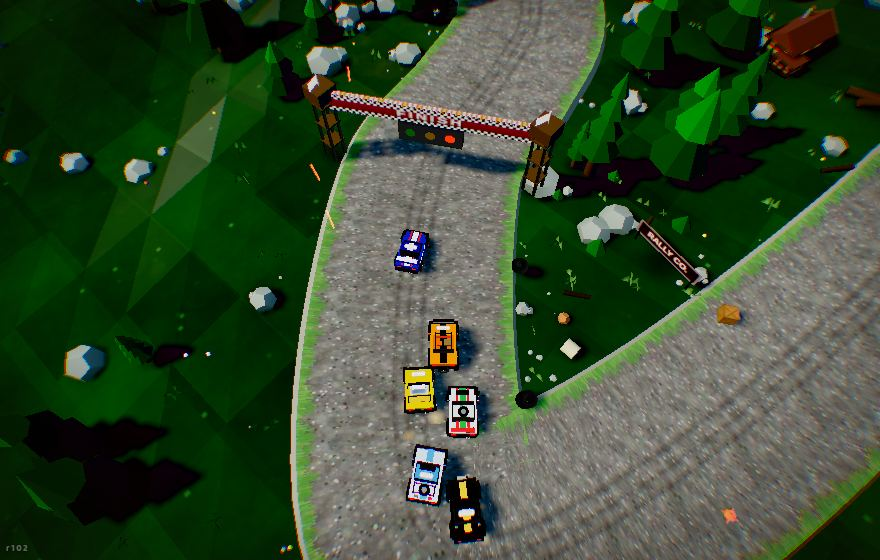
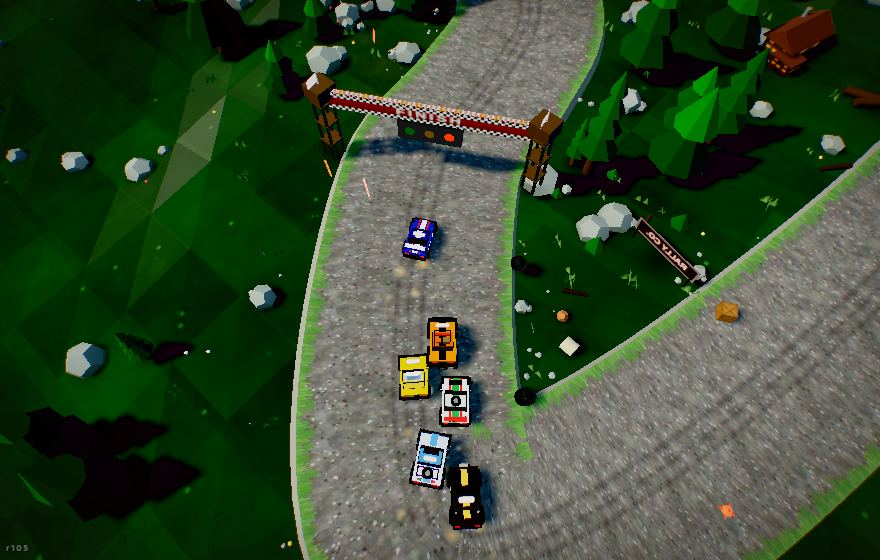
Crashable vines, a gorge that is a hole, nothing standing in water, and the last of the white
CRASHABLE VINES. A trellis panel is wire and leaf, not masonry, so all 7770
of them now go through the same material law as a sapling: at pace you
plough a car-width gap through the row and the panels fly off; at a crawl
the row shoulders you back. Verified in-engine - 7770 registered, 7770
classified as yielding, smashTree zeroes the instance and hands back debris,
restoreSmashed stands it up again between races.

A GORGE IS A HOLE. No road, no water, jump or nothing. The gorge river is
suppressed on any world carrying a jump gorge, and the MAIN river now
pinches to zero width where its reach crosses one, so the water stops at
the rim instead of laying a blue plank across the gap.

NOTHING DRY STANDS IN WATER. _underwater only ever knew about the sea, so
every scatter that used it still dropped its props in the river - straw
bales standing in the current, trees growing mid-stream. One _inWater test
now covers sea and river, and the hay, tree and ring scatters all ask it.
The rejection sits in the position generator, so a wet spot is retried
rather than counting as a prop spent.

THE WHITE, FOR REAL THIS TIME. Furka was still whiting out. Hunted it by
sweeping 20 lap poses through the chase camera, scoring each frame for
near-white pixels, then ablating every named mesh at the worst pose:
- the massif owned 79 % of it. r104 mixed peakColor toward hillColor, which
  works on limestone and does nothing on a snow pass where both are pale.
[…]

diff --git a/src/track.js b/src/track.js
@@ -4492,6 +4492,17 @@ export class Track {
   /** Depth of the river gorge at (x, z): 0 everywhere outside it, easing to
    *  the full depth along the channel. Applied inside _blendHeight so the
    *  scenery field, the terrain mesh and the free-roam ground all agree. */
+  /** Is (x,z) inside a jump gorge's footprint (pad grows it outward)?
+   *  The rule "a gorge is a hole" needs one test every builder can ask. */
+  _inJumpGorge(x, z, pad = 0) {
+    if (!this._jumpGorges?.length) return false;
+    for (const G of this._jumpGorges) {
+      if (this._gorgeCutOne(G, x, z) > 0.4) return true;
+      if (pad > 0 && this._gorgeCutOne(G, x, z) > 0.05) return true;
+    }
+    return false;
+  }
+
   _gorgeCutOne(G, x, z) {
     const dx = x - G.x, dz = z - G.z;
     const u = dx * G.ax + dz * G.az;          // along the gorge
@@ -4751,6 +4762,17 @@ export class Track {
     const C = this.T.coast;
     if (!C) return false;
     return this.terrainHeight(x, z) < (C.level ?? -2) + 0.6;
+  }
+
+  /** IN WATER - sea OR river. `_underwater` only ever knew about the sea, so
+   *  every scatter that used it still dropped its props into the river: straw
+   *  bales standing in the current, trees growing mid-stream. One test now
+   *  covers both, and anything that would look absurd wet asks it. */
+  _inWater(x, z) {
+    if (this._underwater(x, z)) return true;
+    if (!this._river) return false;
+    const R = this._river;
+    return this._riverDist(x, z) < (R.half ?? 8) + 2.5;
   }
 
   /** Harbour worlds only: the open stone strip between the seafront road and
@@ -6814,6 +6836,9 @@ export class Track {
 
   /** The pale turquoise river winding along the bottom of the hero gorge. */
   _buildGorgeRiver() {
+    // A JUMP gorge is meant to be an empty hole: no floor, no water, nothing
+    // that reads as a way across. Worlds that carry jump gorges get a dry gap.
+    if (this._jumpGorges?.length) return;
     const G = this._gorge;
     const SEG = 26, HALF = 7.5;
     const verts = new Float32Array((SEG + 1) * 2 * 3);
@@ -7409,6 +7434,24 @@ export class Track {
    *  rock peaks standing a few hundred units beyond the summit, so from the
    *  valley the road visibly disappears into a wall of mountain instead of a
    *  flat green horizon. SOLID (free roamers can reach them). */
+  /** Rock tone for a NEAR mountain, dark enough to read as rock on any theme.
+   *
+   *  peakColor is the tone for peaks on the HORIZON, where distance washes
+   *  colour out; used close up it renders as a pale slab. Mixing toward
+   *  hillColor fixed the limestone themes but not the snow ones, where both
+   *  are near-white - on FURKA the massif still owned 79 % of the near-white
+   *  pixels in the worst frame. So the mix is followed by a hard lightness
+   *  CEILING: whatever the theme's palette, a mountain a few hundred units
+   *  away comes out as rock you can see the shape of. */
+  _massifRock() {
+    const c = new THREE.Color(this.T.peakColor)
+      .lerp(new THREE.Color(this.T.hillColor ?? 0x6b6a58), 0.62);
+    const hsl = { h: 0, s: 0, l: 0 };
+    c.getHSL(hsl);
+    c.setHSL(hsl.h, Math.max(hsl.s, 0.12), Math.min(hsl.l, 0.42));
+    return c.getHex();
+  }
+
   _buildMassif(m4) {
     const M = this.T.massif;
     const rock = new THREE.InstancedMesh(
@@ -7425,14 +7468,13 @@ export class Track {
         // theme can override outright with massif.color.
         // ...and barely any fog mix either: 0.34 baked a third of the land's
         // cream haze into rock that stands close enough to read as rock.
-        map: this._horizonGrad(M.color ?? new THREE.Color(this.T.peakColor)
-          .lerp(new THREE.Color(this.T.hillColor ?? 0x6b6a58), 0.62)
-          .multiplyScalar(0.78).getHex(), 0.1, 0.02),
+        map: this._horizonGrad(M.color ?? this._massifRock(), 0.1, 0.02),
         flatShading: true, roughness: 1,
       }),
       M.count
     );
     const q = new THREE.Quaternion(), up = new THREE.Vector3(0, 1, 0);
+    const shade = new THREE.Color();
     for (let k = 0; k < M.count; k++) {
       const t = M.count > 1 ? k / (M.count - 1) : 0.5;
       const a = M.az + (t - 0.5) * M.spread + (Math.random() - 0.5) * 0.1;
@@ -7460,17 +7502,29 @@ export class Track {
       const y = -12 - (this.T.hillDrop || 0) + this._highland(x, z);
       m4.compose(new THREE.Vector3(x, y + h / 2, z), q, new THREE.Vector3(w, h, w * 0.85));
       rock.setMatrixAt(k, m4);
+      // per-cone shade: eight identical tones stack into one flat wall, and a
+      // flat wall is what read as a void
+      shade.setScalar(0.78 + Math.random() * 0.3);
+      rock.setColorAt(k, shade);
       this.solids.push({ x, z, r: w * 0.3, y: y + 4, mat: 'stone' });
     }
     rock.name = 'massif';
+    if (rock.instanceColor) rock.instanceColor.needsUpdate = true;
     this.group.add(rock);
   }
 
   /** FURKA RIDGE: the Rhône glacier tongue spilling off the skyline — a
    *  stepped ice field of big pale slabs, well outside the drivable world. */
   _buildGlacier(m4) {
+    // GLACIER ICE, NOT PAPER. At 0xdff0fb under an alpine sun these slabs were
+    // the white wedge that kept filling the frame on FURKA: with the massif
+    // fixed, hiding the glacier still dropped the near-white share of the worst
+    // frame from 4.9 % to 0.55 %, so it owned nearly all of what was left.
+    // Real ice is a blue-grey that darkens fast out of the light - the tone
+    // comes down, the blue comes up, and the faces get enough spread to show
+    // the stepped tongue instead of one flat sheet.
     const ice = new THREE.MeshStandardMaterial({
-      color: 0xdff0fb, roughness: 0.55, flatShading: true, envMapIntensity: 0.7,
+      color: 0x9fc4dc, roughness: 0.62, flatShading: true, envMapIntensity: 0.5,
     });
     const geo = new THREE.BoxGeometry(1, 1, 1);
     geo.translate(0, 0.5, 0);
@@ -7491,7 +7545,7 @@ export class Track {
         q, new THREE.Vector3(w, h, d)
       );
       slabs.setMatrixAt(k, m4);
-      col.setRGB(0.86 + t * 0.12, 0.93 + t * 0.06, 1.0).multiplyScalar(0.92 + Math.random() * 0.14);
+      col.setRGB(0.78 + t * 0.14, 0.88 + t * 0.1, 1.0).multiplyScalar(0.7 + Math.random() * 0.3);
       slabs.setColorAt(k, col);
     }
     slabs.name = 'glacier';
@@ -8117,6 +8171,15 @@ export class Track {
           vines.setMatrixAt(vk, m4);
           col.setHSL(hue + (Math.random() - 0.5) * 0.02, sat, lum + (Math.random() - 0.5) * 0.05);
           vines.setColorAt(vk++, col);
+          // CRASHABLE. A trellis panel is wire and leaf, not masonry: it goes
+          // through the same material law as a sapling, so at pace you plough a
+          // gap through the row and the panels fly off, and at a crawl the row
+          // shoulders you back. Registered per panel, so the gap you carve is
+          // the width of the car, not the whole block.
+          this.trees.push({
+            x: mx, z: mz, y: gy, r: 1.0, id: vk - 1, parts: [vines],
+            kind: 'vine', s: 0.7, solid: false,
+          });
           if (i % 3 === 0 && pk < posts.count) {
             m4.compose(pos.set(ax, ya, az), q.setFromAxisAngle(up, 0),
               scl.set(1, 1.8 + Math.random() * 0.22, 1));
@@ -10599,7 +10662,7 @@ export class Track {
         }
         // the ring branch skips _trackSidePos and with it the underwater
         // check — on a coast world it was planting conifers IN the sea
-        return p && !this._underwater(p.x, p.z) && !this._onQuayStrip(p.x, p.z)
+        return p && !this._inWater(p.x, p.z) && !this._onQuayStrip(p.x, p.z)
           && this._altOK(p.x, p.z) ? p : null;
       },
       (p) => {
@@ -11566,7 +11629,7 @@ export class Track {
             return this._distToTrack(x, z) < 14 ? null : { x, z };
           })();
         // no olives rooted in the bay: the ring branch bypasses _trackSidePos
-        return p && !this._underwater(p.x, p.z) && this._altOK(p.x, p.z) ? p : null;
+        return p && !this._inWater(p.x, p.z) && this._altOK(p.x, p.z) ? p : null;
       },
       (p) => {
         // on the lattice it is a planted grove, so it is a grove tree and it
@@ -12301,7 +12364,13 @@ export class Track {
     // behind the hedge, where a real silage stack sits anyway. Unset = 12.5-20,
     // the figures every other world has always used.
     const hayNear = this.T.hayNear ?? 12.5, hayFar = this.T.hayFar ?? 20;
-    this._scatter(hayCount, () => this._trackSidePos(hayNear, hayFar), (p) => {
+    // A straw bale standing in the river is not scenery, it is a mistake. The
+    // rejection lives in the position generator so a wet spot is RETRIED
+    // rather than counting as a bale spent.
+    this._scatter(hayCount, () => {
+      const p = this._trackSidePos(hayNear, hayFar);
+      return p && !this._inWater(p.x, p.z) ? p : null;
+    }, (p) => {
       q.setFromAxisAngle(up, Math.random() * Math.PI);
       m4.compose(new THREE.Vector3(p.x, this.terrainHeight(p.x, p.z) + 0.8, p.z), q, new THREE.Vector3(1, 1, 1));
       hay.setMatrixAt(hk++, m4);
@@ -12719,7 +12788,11 @@ export class Track {
       // same shape (see `halfAt` in _planRiver)
       const df = this._distToTrackCoarse(p.x, p.z);
       const kk = this._riverNearest(p.x, p.z).k;
-      const w = (R.halfAt && R.halfAt[kk] != null) ? R.halfAt[kk] : R.half;
+      let w = (R.halfAt && R.halfAt[kk] != null) ? R.halfAt[kk] : R.half;
+      // ...and the MAIN river may not span one either. Where the reach crosses
+      // a jump gorge the ribbon pinches to nothing, so the water stops at the
+      // rim instead of laying a blue plank over the gap.
+      if (this._inJumpGorge(p.x, p.z, 6)) w = 0;
       F.push({ t, x: p.x, z: p.z, nx, nz, w, df });
     }
 

diff --git a/index.html b/index.html
@@ -835,7 +835,7 @@
 </div>
 <div id="damage-vignette"></div>
 <div id="polish-vignette"></div>
-<div id="build-tag">r104</div>
+<div id="build-tag">r105</div>
 <div id="fade"></div>
 
 <div id="touch-ui">
@@ -1048,10 +1048,10 @@
   // its URL + anon key here. Leave empty to keep sync codes only.
   window.IGNITE_SYNC = { url: '', key: '' };
 </script>
-<script type="module" src="./src/main.js?v=r104"></script>
+<script type="module" src="./src/main.js?v=r105"></script>
 <!-- offline arming: registers sw.js and drives the flight badge -->
-<script src="./src/offline.js?v=r104"></script>
+<script src="./src/offline.js?v=r105"></script>
 <!-- rural traffic: self-attaching, polls window.__game (no engine hooks) -->
-<script type="module" src="./src/traffic.js?v=r104"></script>
+<script type="module" src="./src/traffic.js?v=r105"></script>
 </body>
 </html>

diff --git a/sw.js b/sw.js
@@ -16,7 +16,7 @@
  * CACHE is bumped by the release version. Bump it whenever ?v= in index.html
  * is bumped, or phones will keep serving the previous build forever.
  */
-const CACHE = 'ignite-rally-r104';
+const CACHE = 'ignite-rally-r105';
 
 // ---- CORE vs EXTRA ---------------------------------------------------------
 // CORE is everything the game needs to RUN with the radio off: the shell, the
